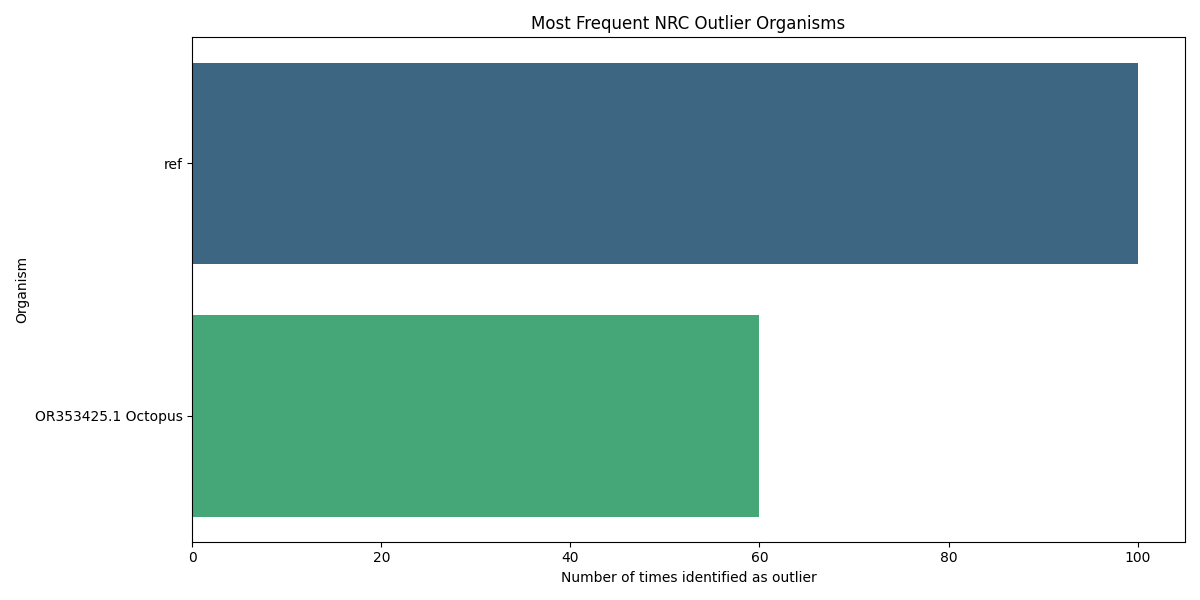
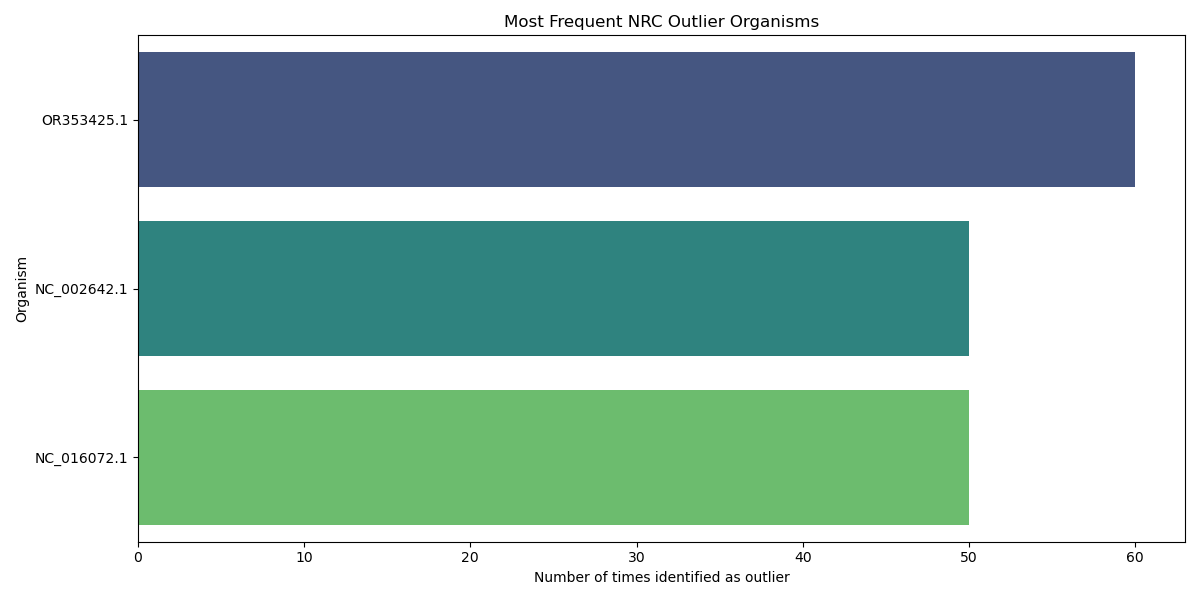
hotfix: shortnaming conventions for outliers

diff --git a/visualization/data_handler.py b/visualization/data_handler.py
@@ -46,19 +46,12 @@ def process_data(data):
         
         for ref in experiment['references']:
             # Create a shorter name for display purposes
-            full_name = ref['name']
-            if "|" in full_name:
-                parts = full_name.split("|")
-                if len(parts) >= 3:
-                    short_name = parts[2].strip()
-                else:
-                    short_name = parts[0].strip()
-            else:
-                name_parts = full_name.split(" ")
-                if len(name_parts) > 2:
-                    short_name = " ".join(name_parts[0:2])
-                else:
-                    short_name = full_name
+            short_name = ref['name']
+            if '|' in short_name:
+                short_name = ''.join(short_name.split('|')[-2:])
+            short_name = short_name.split(',')[0]
+            if 'NC' in short_name or 'OR' in short_name:
+                short_name = short_name.split()[0]
             
             results.append({
                 'alpha': alpha,
